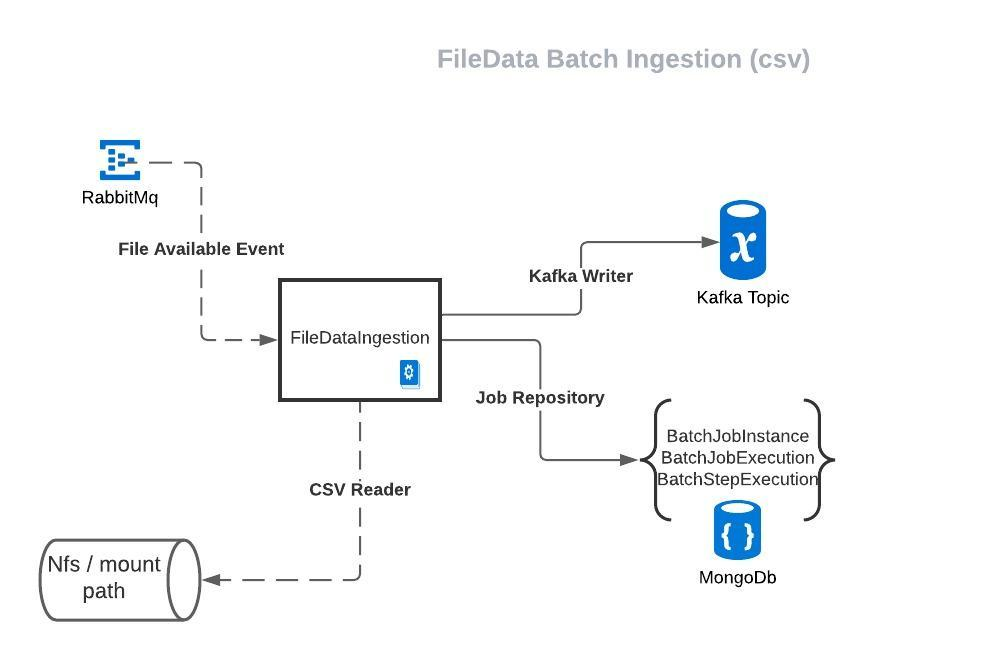
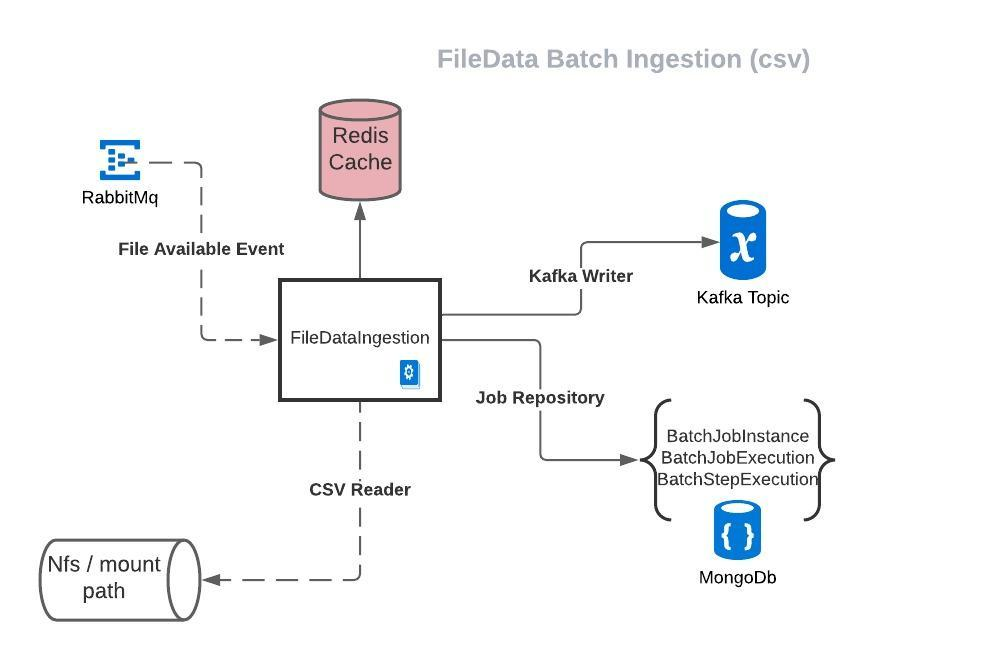
add distrbuted cache

Changed region(s): [[0.3058, 0.1515, 0.4281, 0.3333]]

diff --git a/README.md b/README.md
@@ -24,7 +24,8 @@ To be able to run this module it is recommended to ensure following prerequisite
     - Spring framework (Spring DI, Beans, REST) , Spring batch and Springboot
     - MongoDb
     - RabbitMq
-    - Apache Camel  
+    - Apache Camel
+    - Redis  
     - Kafka  
     - REST API standards & JSON (un)marshalling
     - Eclipse, Junit, Maven
@@ -51,7 +52,7 @@ mvn -U clean compile -DskipTests
 
 This is ingest module to read csv file formats from mount path or NFS path.FileData ingestion is triggered on receiving event on RabbitMq exchange.
 Read records are transformed to a map structure json before pushing the records to configured kafka topic.Every file available event triggers new job launcher which
-is logged to filebatch collections.
+is logged to filebatch collections.Redis cache will enable locking of file or part to be processed by a procesor(to implement). 
 
 Diagram below, shows high level components in file data ingestion.
 
